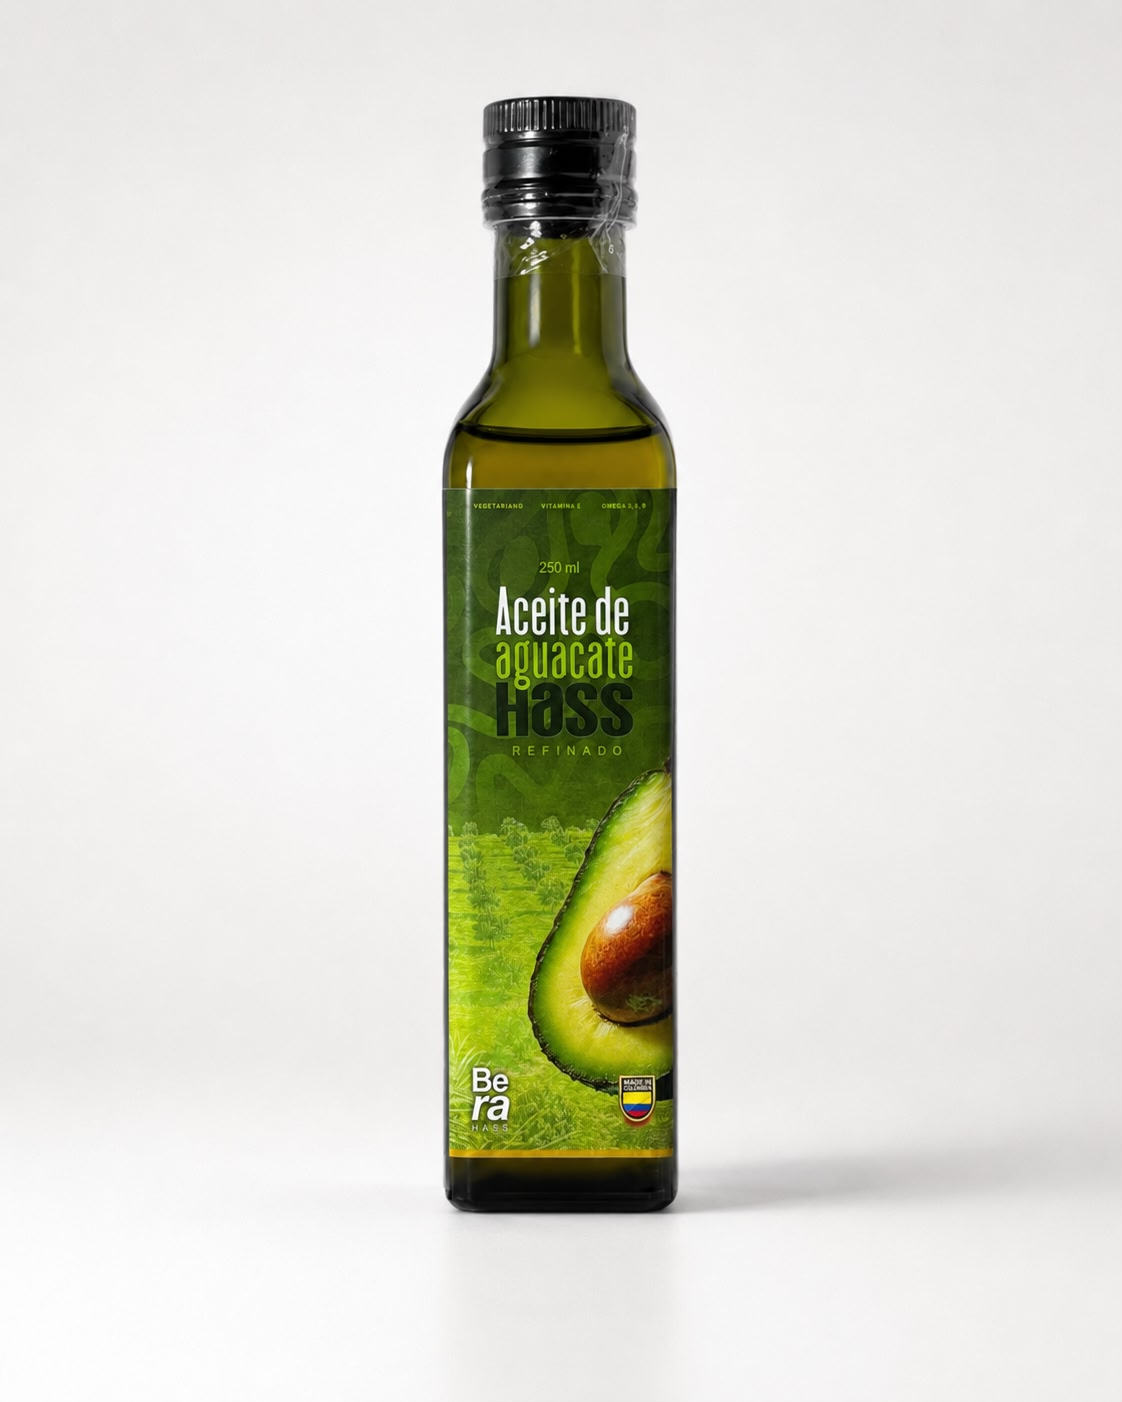
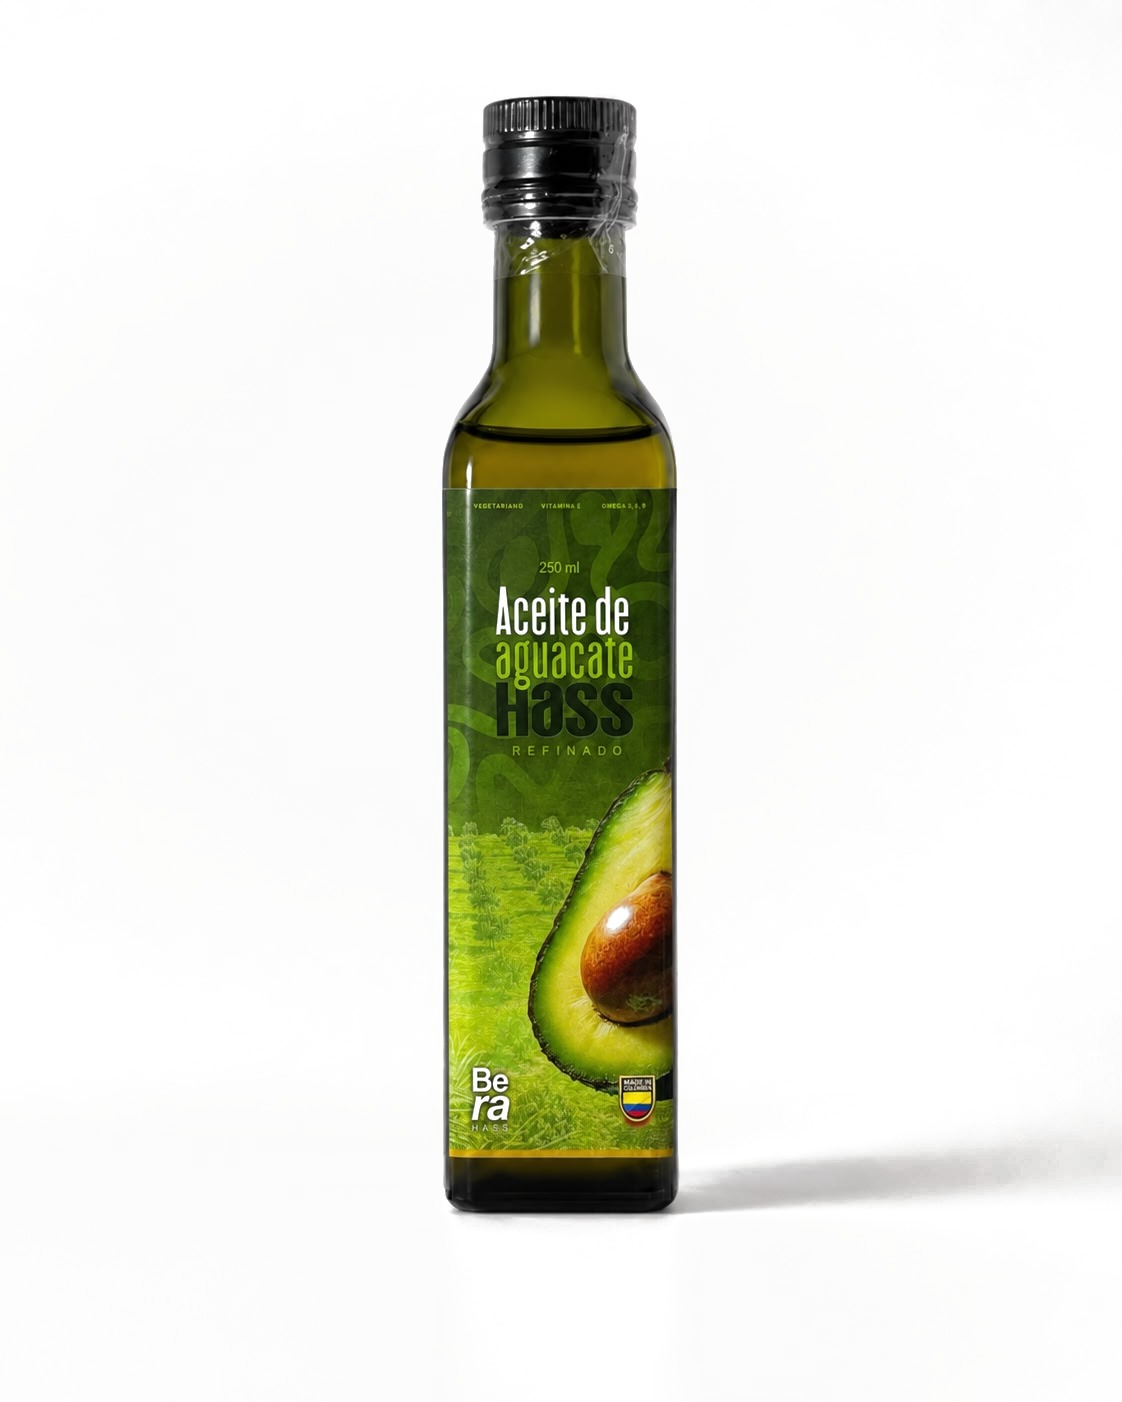
Blanquea el fondo de la foto refinado para igualar al extravirgen
La foto original tenía un fondo gris (~#EBE8E6) con sombra que se veía
como un recuadro dentro del card blanco. Se reprocesó el JPEG para
empujar el fondo a blanco puro (con transición suave que preserva la
sombra natural bajo la botella) y se eliminaron los hacks de
`mix-blend-mode: multiply` y `drop-shadow` que ya no son necesarios.
Ahora se integra al card igual que el extravirgen.

diff --git a/producto.css b/producto.css
@@ -95,11 +95,6 @@
 .prod-gallery-img-refinado {
     max-height: 460px;
     max-width: 88%;
-    mix-blend-mode: multiply;
-    filter: drop-shadow(0 22px 30px rgba(0,0,0,0.18));
-}
-.prod-gallery-main:hover .prod-gallery-img-refinado {
-    filter: drop-shadow(0 28px 38px rgba(0,0,0,0.22));
 }
 .prod-gallery-features {
     display: flex;

diff --git a/styles.css b/styles.css
@@ -1130,8 +1130,6 @@ button, input, select, textarea { font: inherit; }
 .prod-img-garrafa { max-height: 200px; }
 .prod-img-refinado {
     max-height: 230px;
-    filter: drop-shadow(0 14px 22px rgba(0,0,0,0.18));
-    mix-blend-mode: multiply;
 }
 .prod-card:hover .prod-img { transform: scale(1.05); }
 .prod-badge {
